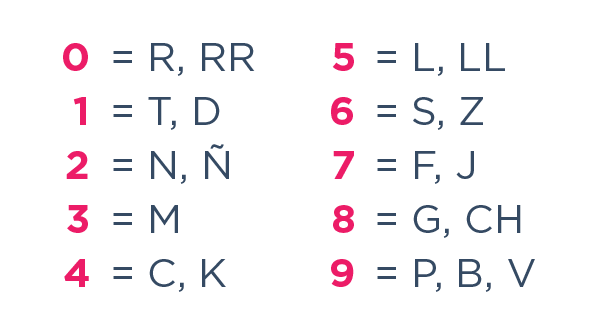
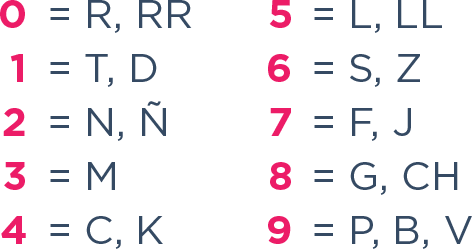
Mejoro estilos de Tutoriales
Las imágenes no quedaron perfectas por la relación de aspecto que tienen. Habría que ver si se puede lograr algo mejor, pero parece imposible sin editar las imágenes.

diff --git a/src/components/tutorials/ViewMutiplicationTutorial.js b/src/components/tutorials/ViewMutiplicationTutorial.js
@@ -11,32 +11,6 @@ export class ViewMultiplicationTutorial extends React.Component {
         header: null
     };
 
-    constructor(props) {
-        super(props);
-
-        this.showExamples = this.showExamples.bind(this);
-    }
-
-    showExamples() {
-        return (
-            <View style={TUTORIAL_STYLES.exampleContainer}>
-                <Text style={TUTORIAL_STYLES.exampleTitle}>{I18n.t('tutorial.common.examples').toUpperCase()}</Text>
-                <Image source={Images.multiplicationExample1} style={TUTORIAL_STYLES.image}/>
-                <Text style={TUTORIAL_STYLES.explanation}>
-                    {I18n.t('tutorial.multiplication.firstSentence')}
-                </Text>
-                <Image source={Images.multiplicationExample2} style={TUTORIAL_STYLES.image}/>
-                <Text style={TUTORIAL_STYLES.explanation}>
-                    {I18n.t('tutorial.multiplication.secondSentence')}
-                </Text>
-                <Image source={Images.multiplicationExample3} style={TUTORIAL_STYLES.image}/>
-                <Text style={TUTORIAL_STYLES.explanation}>
-                    {I18n.t('tutorial.multiplication.thirdSentence')}
-                </Text>
-            </View>
-        )
-    }
-
     videoId() {
         if (I18n.currentLocale().startsWith('es')) {
             return "mwa-zblNdR4";
@@ -49,8 +23,29 @@ export class ViewMultiplicationTutorial extends React.Component {
         return (
             <Tutorial title={I18n.t('tutorial.multiplication.sectionTitle')}
                       headerTitle={I18n.t('tutorial.multiplication.headerTitle').toUpperCase()}
-                      videoId={this.videoId()}
-                      showExamples={this.showExamples} />
+                      videoId={this.videoId()}>
+                <View style={TUTORIAL_STYLES.exampleContainer}>
+                    <Text style={TUTORIAL_STYLES.exampleTitle}>{I18n.t('tutorial.common.examples').toUpperCase()}</Text>
+                    <View style={TUTORIAL_STYLES.imageContainer}>
+                        <Image source={Images.multiplicationExample1} style={TUTORIAL_STYLES.image}/>
+                    </View>
+                    <Text style={TUTORIAL_STYLES.explanation}>
+                        {I18n.t('tutorial.multiplication.firstSentence')}
+                    </Text>
+                    <View style={TUTORIAL_STYLES.imageContainer}>
+                        <Image source={Images.multiplicationExample2} style={TUTORIAL_STYLES.image}/>
+                    </View>
+                    <Text style={TUTORIAL_STYLES.explanation}>
+                        {I18n.t('tutorial.multiplication.secondSentence')}
+                    </Text>
+                    <View style={TUTORIAL_STYLES.imageContainer}>
+                        <Image source={Images.multiplicationExample3} style={TUTORIAL_STYLES.image}/>
+                    </View>
+                    <Text style={TUTORIAL_STYLES.explanation}>
+                        {I18n.t('tutorial.multiplication.thirdSentence')}
+                    </Text>
+                </View>
+            </Tutorial>
         );
     }
 }

diff --git a/src/components/tutorials/ViewAdditionTutorial.js b/src/components/tutorials/ViewAdditionTutorial.js
@@ -11,28 +11,6 @@ export class ViewAdditionTutorial extends React.Component {
         header: null
     };
 
-    constructor(props) {
-        super(props);
-
-        this.showExamples = this.showExamples.bind(this);
-    }
-
-    showExamples() {
-        return (
-            <View style={TUTORIAL_STYLES.exampleContainer}>
-                <Text style={TUTORIAL_STYLES.exampleTitle}>{I18n.t('tutorial.common.examples').toUpperCase()}</Text>
-                <Image source={Images.additionExample1} style={TUTORIAL_STYLES.image}/>
-                <Text style={TUTORIAL_STYLES.explanation}>
-                    {I18n.t('tutorial.addition.firstSentence')}
-                </Text>
-                <Image source={Images.additionExample2} style={TUTORIAL_STYLES.image}/>
-                <Text style={TUTORIAL_STYLES.explanation}>
-                    {I18n.t('tutorial.addition.secondSentence')}
-                </Text>
-            </View>
-        )
-    }
-
     videoId() {
         if (I18n.currentLocale().startsWith('es')) {
             return "Ies8X7VxGKs";
@@ -45,8 +23,24 @@ export class ViewAdditionTutorial extends React.Component {
         return (
             <Tutorial title={I18n.t('tutorial.addition.sectionTitle')}
                       headerTitle={I18n.t('tutorial.addition.headerTitle').toUpperCase()}
-                      videoId={this.videoId()}
-                      showExamples={this.showExamples}/>
+                      videoId={this.videoId()}>
+
+                <View style={TUTORIAL_STYLES.exampleContainer}>
+                    <Text style={TUTORIAL_STYLES.exampleTitle}>{I18n.t('tutorial.common.examples').toUpperCase()}</Text>
+                    <View style={TUTORIAL_STYLES.imageContainer}>
+                        <Image source={Images.additionExample1} style={TUTORIAL_STYLES.image}/>
+                    </View>
+                    <Text style={TUTORIAL_STYLES.explanation}>
+                        {I18n.t('tutorial.addition.firstSentence')}
+                    </Text>
+                    <View style={TUTORIAL_STYLES.imageContainer}>
+                        <Image source={Images.additionExample2} style={TUTORIAL_STYLES.image}/>
+                    </View>
+                    <Text style={TUTORIAL_STYLES.explanation}>
+                        {I18n.t('tutorial.addition.secondSentence')}
+                    </Text>
+                </View>
+            </Tutorial>
         );
     }
 }

diff --git a/src/components/tutorials/ViewToSquare3Tutorial.js b/src/components/tutorials/ViewToSquare3Tutorial.js
@@ -11,28 +11,6 @@ export class ViewToSquare3Tutorial extends React.Component {
         header: null
     };
 
-    constructor(props) {
-        super(props);
-
-        this.showExamples = this.showExamples.bind(this);
-    }
-
-    showExamples() {
-        return (
-            <View style={TUTORIAL_STYLES.exampleContainer}>
-                <Text style={TUTORIAL_STYLES.exampleTitle}>{I18n.t('tutorial.common.examples').toUpperCase()}</Text>
-                <Image source={Images.square3dExample1} style={TUTORIAL_STYLES.image}/>
-                <Text style={TUTORIAL_STYLES.explanation}>
-                    {I18n.t('tutorial.toSquare3.firstSentence')}
-                </Text>
-                <Image source={Images.square3dExample2} style={TUTORIAL_STYLES.image}/>
-                <Text style={TUTORIAL_STYLES.explanation}>
-                    {I18n.t('tutorial.toSquare3.secondSentence')}
-                </Text>
-            </View>
-        )
-    }
-
     videoId() {
         if (I18n.currentLocale().startsWith('es')) {
             return "VHsTlMzN76g";
@@ -45,8 +23,19 @@ export class ViewToSquare3Tutorial extends React.Component {
         return (
             <Tutorial title={I18n.t('tutorial.toSquare3.sectionTitle')}
                       headerTitle={I18n.t('tutorial.toSquare3.headerTitle').toUpperCase()}
-                      videoId={this.videoId()}
-                      showExamples={this.showExamples} />
+                      videoId={this.videoId()}>
+                <View style={TUTORIAL_STYLES.exampleContainer}>
+                    <Text style={TUTORIAL_STYLES.exampleTitle}>{I18n.t('tutorial.common.examples').toUpperCase()}</Text>
+                    <Image source={Images.square3dExample1} style={TUTORIAL_STYLES.image}/>
+                    <Text style={TUTORIAL_STYLES.explanation}>
+                        {I18n.t('tutorial.toSquare3.firstSentence')}
+                    </Text>
+                    <Image source={Images.square3dExample2} style={TUTORIAL_STYLES.image}/>
+                    <Text style={TUTORIAL_STYLES.explanation}>
+                        {I18n.t('tutorial.toSquare3.secondSentence')}
+                    </Text>
+                </View>
+            </Tutorial>
         );
     }
 }

diff --git a/src/components/tutorials/ViewToSquare4Tutorial.js b/src/components/tutorials/ViewToSquare4Tutorial.js
@@ -11,28 +11,6 @@ export class ViewToSquare4Tutorial extends React.Component {
         header: null
     };
 
-    constructor(props) {
-        super(props);
-
-        this.showExamples = this.showExamples.bind(this);
-    }
-
-    showExamples() {
-        return (
-            <View style={TUTORIAL_STYLES.exampleContainer}>
-                <Text style={TUTORIAL_STYLES.exampleTitle}>{I18n.t('tutorial.common.examples').toUpperCase()}</Text>
-                <Image source={Images.square4dExample1} style={TUTORIAL_STYLES.image}/>
-                <Text style={TUTORIAL_STYLES.explanation}>
-                    {I18n.t('tutorial.toSquare4.firstSentence')}
-                </Text>
-                <Image source={Images.square4dExample2} style={TUTORIAL_STYLES.image}/>
-                <Text style={TUTORIAL_STYLES.explanation}>
-                    {I18n.t('tutorial.toSquare4.secondSentence')}
-                </Text>
-            </View>
-        )
-    }
-
     videoId() {
         if (I18n.currentLocale().startsWith('es')) {
             return "WW_VLPJ__V0";
@@ -46,8 +24,19 @@ export class ViewToSquare4Tutorial extends React.Component {
         return (
             <Tutorial title={I18n.t('tutorial.toSquare4.sectionTitle')}
                       headerTitle={I18n.t('tutorial.toSquare4.headerTitle').toUpperCase()}
-                      videoId={this.videoId()}
-                      showExamples={this.showExamples} />
+                      videoId={this.videoId()}>
+                <View style={TUTORIAL_STYLES.exampleContainer}>
+                    <Text style={TUTORIAL_STYLES.exampleTitle}>{I18n.t('tutorial.common.examples').toUpperCase()}</Text>
+                    <Image source={Images.square4dExample1} style={TUTORIAL_STYLES.image}/>
+                    <Text style={TUTORIAL_STYLES.explanation}>
+                        {I18n.t('tutorial.toSquare4.firstSentence')}
+                    </Text>
+                    <Image source={Images.square4dExample2} style={TUTORIAL_STYLES.image}/>
+                    <Text style={TUTORIAL_STYLES.explanation}>
+                        {I18n.t('tutorial.toSquare4.secondSentence')}
+                    </Text>
+                </View>
+            </Tutorial>
         );
     }
 }

diff --git a/src/components/tutorials/ViewToSquare2Tutorial.js b/src/components/tutorials/ViewToSquare2Tutorial.js
@@ -11,28 +11,6 @@ export class ViewToSquare2Tutorial extends React.Component {
         header: null
     };
 
-    constructor(props) {
-        super(props);
-
-        this.showExamples = this.showExamples.bind(this);
-    }
-
-    showExamples() {
-        return (
-            <View style={TUTORIAL_STYLES.exampleContainer}>
-                <Text style={TUTORIAL_STYLES.exampleTitle}>{I18n.t('tutorial.common.examples').toUpperCase()}</Text>
-                <Image source={Images.squareExample1} style={TUTORIAL_STYLES.image}/>
-                <Text style={TUTORIAL_STYLES.explanation}>
-                    {I18n.t('tutorial.toSquare2.firstSentence')}
-                </Text>
-                <Image source={Images.squareExample2} style={TUTORIAL_STYLES.image}/>
-                <Text style={TUTORIAL_STYLES.explanation}>
-                    {I18n.t('tutorial.toSquare2.secondSentence')}
-                </Text>
-            </View>
-        )
-    }
-
     videoId() {
         if (I18n.currentLocale().startsWith('es')) {
             return "_CUWlWjFreM";
@@ -45,8 +23,19 @@ export class ViewToSquare2Tutorial extends React.Component {
         return (
             <Tutorial title={I18n.t('tutorial.toSquare2.sectionTitle')}
                       headerTitle={I18n.t('tutorial.toSquare2.headerTitle').toUpperCase()}
-                      videoId={this.videoId()}
-                      showExamples={this.showExamples} />
+                      videoId={this.videoId()}>
+                <View style={TUTORIAL_STYLES.exampleContainer}>
+                    <Text style={TUTORIAL_STYLES.exampleTitle}>{I18n.t('tutorial.common.examples').toUpperCase()}</Text>
+                    <Image source={Images.squareExample1} style={TUTORIAL_STYLES.image}/>
+                    <Text style={TUTORIAL_STYLES.explanation}>
+                        {I18n.t('tutorial.toSquare2.firstSentence')}
+                    </Text>
+                    <Image source={Images.squareExample2} style={TUTORIAL_STYLES.image}/>
+                    <Text style={TUTORIAL_STYLES.explanation}>
+                        {I18n.t('tutorial.toSquare2.secondSentence')}
+                    </Text>
+                </View>
+            </Tutorial>
         );
     }
 }

diff --git a/src/components/tutorials/ViewMajorSystemTutorial.js b/src/components/tutorials/ViewMajorSystemTutorial.js
@@ -11,24 +11,6 @@ export class ViewMajorSystemTutorial extends React.Component {
         header: null
     };
 
-    constructor(props) {
-        super(props);
-
-        this.showExamples = this.showExamples.bind(this);
-    }
-
-    showExamples() {
-        return (
-            <View style={TUTORIAL_STYLES.exampleContainer}>
-                <Text style={TUTORIAL_STYLES.exampleTitle}>{I18n.t('tutorial.majorSystem.table').toUpperCase()}</Text>
-                <Image source={Images.majorSystemExample} style={TUTORIAL_STYLES.image}/>
-                <Text style={TUTORIAL_STYLES.explanation}>
-                    {I18n.t('tutorial.majorSystem.sentence')}
-                </Text>
-            </View>
-        )
-    }
-
     videoId() {
         if (I18n.currentLocale().startsWith('es')) {
             return "Fv0Si7UJHKw";
@@ -41,8 +23,16 @@ export class ViewMajorSystemTutorial extends React.Component {
         return (
             <Tutorial title={I18n.t('tutorial.majorSystem.sectionTitle')}
                       headerTitle={I18n.t('tutorial.majorSystem.headerTitle').toUpperCase()}
-                      videoId={this.videoId()}
-                      showExamples={this.showExamples} />
+                      videoId={this.videoId()}>
+                <View style={TUTORIAL_STYLES.exampleContainer}>
+                    <Text
+                        style={TUTORIAL_STYLES.exampleTitle}>{I18n.t('tutorial.majorSystem.table').toUpperCase()}</Text>
+                    <Image source={Images.majorSystemExample} style={TUTORIAL_STYLES.image}/>
+                    <Text style={TUTORIAL_STYLES.explanation}>
+                        {I18n.t('tutorial.majorSystem.sentence')}
+                    </Text>
+                </View>
+            </Tutorial>
         );
     }
 }

diff --git a/src/styles/tutorials/styles.js b/src/styles/tutorials/styles.js
@@ -6,10 +6,10 @@ const windowWidth = getWindowWidth();
 
 export const TUTORIAL_STYLES = {
     tutorial: {
-        flex: 5,
+        flex: 1,
         flexDirection: "column",
-        paddingLeft: windowHeight * 0.03,
-        paddingRight: windowHeight * 0.03,
+        paddingLeft: windowWidth * 0.03,
+        paddingRight: windowWidth * 0.03,
         paddingBottom: windowHeight * 0.03,
         backgroundColor: lightGrayColor
     },
@@ -29,7 +29,7 @@ export const TUTORIAL_STYLES = {
         height: windowHeight * 0.008
     },
     exampleContainer: {
-        flex: 3,
+        flex: 1,
         flexDirection: "column",
         backgroundColor: whiteColor,
         marginTop: 10,
@@ -44,9 +44,13 @@ export const TUTORIAL_STYLES = {
         fontSize: 20,
         color: greenColor
     },
+    imageContainer: {
+        flex: 1,
+        alignItems: "flex-end",
+    },
     image: {
-        resizeMode: 'contain',
-        width: windowWidth * 0.9,
+        resizeMode: 'stretch',  // 'contain' also works but makes a lot of top/bottom margin due to resize
+        maxWidth: "100%",
         marginTop: 20,
         marginBottom: 20
     },

diff --git a/src/components/tutorials/Tutorial.js b/src/components/tutorials/Tutorial.js
@@ -15,7 +15,7 @@ export class Tutorial extends React.Component {
                 <View style={TUTORIAL_STYLES.division}>
                 </View>
                 <VideoPlayer videoId={this.props.videoId}/>
-                {this.props.showExamples()}
+                {this.props.children}
             </ScrollView>
         );
     }
